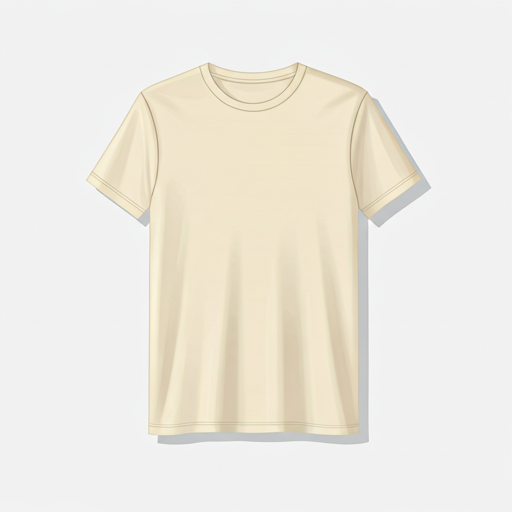
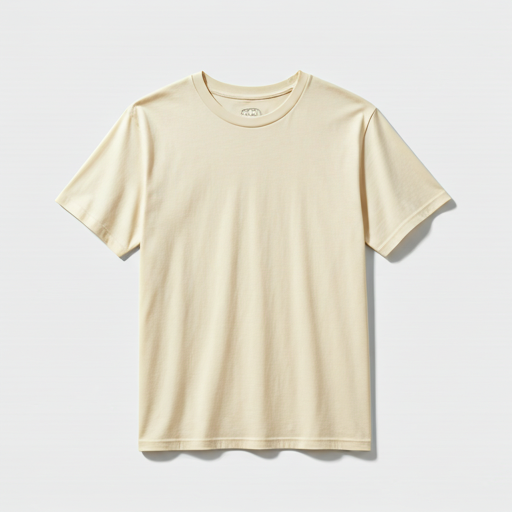
Component Product Page Product Info

Changed region(s): [[0.0938, 0.125, 0.9062, 0.9062], [0.4375, 0.4062, 0.4688, 0.7188], [0.3438, 0.375, 0.375, 0.4375]]

diff --git a/src/components/product-detail.html b/src/components/product-detail.html
@@ -1,0 +1,126 @@
+<!DOCTYPE html>
+<html lang="pt-br">
+
+<head>
+    <meta charset="UTF-8">
+    <meta name="viewport" content="width=device-width, initial-scale=1.0">
+    <title>Product Detail</title>
+    <link href="https://cdn.jsdelivr.net/npm/bootstrap@5.3.2/dist/css/bootstrap.min.css" rel="stylesheet">
+    <link rel="shortcut icon" href="../../public/ecotrend_favicon.webp" type="image/x-icon">
+    <link rel="stylesheet" href="../assets/css/style.css">
+</head>
+
+<body>
+    <!-- Navbar -->
+    <nav class="navbar navbar-expand-lg bg-white shadow-sm py-3">
+        <div class="container">
+            <!-- Logo -->
+            <a class="navbar-brand d-flex align-items-center" href="../../index.html">
+                <img src="../assets/img/icons_header/ecotrend_favicon.webp" alt="Logo"
+                    style="height:30px; margin-right:8px;">
+                <span class="fw-bold">EcoTrend</span>
+            </a>
+
+            <!-- Botão mobile -->
+            <button title="buttom" class="navbar-toggler" type="button" data-bs-toggle="collapse"
+                data-bs-target="#navbarNav">
+                <span class="navbar-toggler-icon"></span>
+            </button>
+
+            <!-- Menu -->
+            <div class="collapse navbar-collapse justify-content-center" id="navbarNav">
+                <ul class="navbar-nav gap-4">
+                    <li class="nav-item"><a class="nav-link fw-semibold" href="#">Produtos</a></li>
+                    <li class="nav-item"><a class="nav-link fw-semibold" href="#">Sobre nós</a></li>
+                    <li class="nav-item"><a class="nav-link fw-semibold" href="#">Contato</a></li>
+                </ul>
+            </div>
+
+            <!-- Ícones à direita -->
+            <div class="d-flex align-items-center gap-3">
+                <a href="#"><i class="bi bi-search fs-5"><img src="../assets/img/icons_header/search_icon.png" alt=""
+                            style="height:30px; margin-right:8px;"></i></a>
+                <a href="#"><i class="bi bi-cart fs-5"><img src="../assets/img/icons_header/cart_icon.png" alt=""
+                            style="height:30px; margin-right:8px;"></i></a>
+                <img src="../assets/img/icons_header/user-icon.png" class="rounded-circle" alt="Profile"
+                    style="height:30px; margin-right:8px;">
+            </div>
+        </div>
+    </nav>
+
+    <section class="product-page py-5">
+        <div class="container">
+            <div class="row">
+                <!-- Product Images -->
+                <div class="col-md-6">
+                    <img src="../assets/img/products/organic-cotton-tshirt.png" class="img-fluid rounded shadow-sm mb-3"
+                        alt="Organic Cotton T-Shirt">
+
+                    <!-- Thumbnails -->
+                    <div class="d-flex gap-2">
+                        <img src="../assets/img/products/organic-cotton-tshirt.png" class="img-thumbnail" width="80"
+                            alt="">
+                        <img src="../assets/img/products/organic-cotton-tshirt.png" class="img-thumbnail" width="80"
+                            alt="">
+                        <img src="../assets/img/products/organic-cotton-tshirt.png" class="img-thumbnail" width="80"
+                            alt="">
+                        <img src="../assets/img/products/organic-cotton-tshirt.png" class="img-thumbnail" width="80"
+                            alt="">
+                    </div>
+                </div>
+
+                <!-- Product Info -->
+                <div class="col-md-6">
+                    <!-- Breadcrumb -->
+                    <nav aria-label="breadcrumb" class="mb-3">
+                        <ol class="breadcrumb">
+                            <li class="breadcrumb-item"><a href="../../index.html">Home</a></li>
+                            <li class="breadcrumb-item"><a href="../pages/products.html">Produtos</a></li>
+                            <li class="breadcrumb-item active" aria-current="page">Produto</li>
+                        </ol>
+                    </nav>
+
+                    <h3 class="fw-bold">Camiseta de algodão orgânico</h3>
+                    <p class="text-muted">Made with 100% organic cotton, this t-shirt is both comfortable and
+                        environmentally friendly.</p>
+
+                    <!-- Ratings -->
+                    <div class="d-flex align-items-center mb-2">
+                        <div class="text-warning me-2">★★★★☆</div>
+                        <small>(4.5) - 120 reviews</small>
+                    </div>
+
+                    <!-- Price -->
+                    <h4 class="fw-bold mb-3">$25.00</h4>
+
+                    <!-- Colors -->
+                    <div class="mb-3">
+                        <span class="fw-semibold">Color: </span>
+                        <button title="color-dark" type="button" class="btn btn-outline-light rounded-circle p-3 me-2"></button>
+                        <button title="color-dark" type="button" class="btn btn-outline-dark rounded-circle p-3 me-2"></button>
+                        <button title="color-green" type="button" class="btn btn-outline-success rounded-circle p-3 me-2"></button>
+                        <button title="color-blue" type="button" class="btn btn-outline-primary rounded-circle p-3 me-2"></button>
+                        <button title="color-red" type="button" class="btn btn-outline-danger rounded-circle p-3 me-2"></button>
+                    </div>
+
+                    <!-- Sizes -->
+                    <div class="mb-3">
+                        <span class="fw-semibold">Size: </span>
+                        <div class="btn-group" role="group">
+                            <button class="btn btn-outline-secondary">XS</button>
+                            <button class="btn btn-outline-secondary">S</button>
+                            <button class="btn btn-success">M</button>
+                            <button class="btn btn-outline-secondary">L</button>
+                            <button class="btn btn-outline-secondary">XL</button>
+                        </div>
+                    </div>
+
+                    <button class="btn btn-dark px-4">Add to Cart</button>
+                </div>
+            </div>
+
+
+
+</body>
+
+</html>

diff --git a/index.html b/index.html
@@ -40,7 +40,7 @@
       <div class="d-flex align-items-center gap-3">
         <a href="#"><i class="bi bi-search fs-5"><img src="./src/assets/img/icons_header/search_icon.png" alt=""
               style="height:30px; margin-right:8px;"></i></a>
-        <a href="#"><i class="bi bi-cart fs-5"><img src="./src/assets/img/icons_header/cart_icon.png" alt=""
+        <a href="./src/pages/shopping-cart.html"><i class="bi bi-cart fs-5"><img src="./src/assets/img/icons_header/cart_icon.png" alt=""
               style="height:30px; margin-right:8px;"></i></a>
         <img src="./src/assets/img/icons_header/user-icon.png" class="rounded-circle" alt="Profile"
           style="height:30px; margin-right:8px;">

diff --git a/src/components/header.html b/src/components/header.html
@@ -1,5 +1,5 @@
 <!DOCTYPE html>
-<html lang="en">
+<html lang="pt-br">
 <head>
     <meta charset="UTF-8">
     <meta name="viewport" content="width=device-width, initial-scale=1.0">
